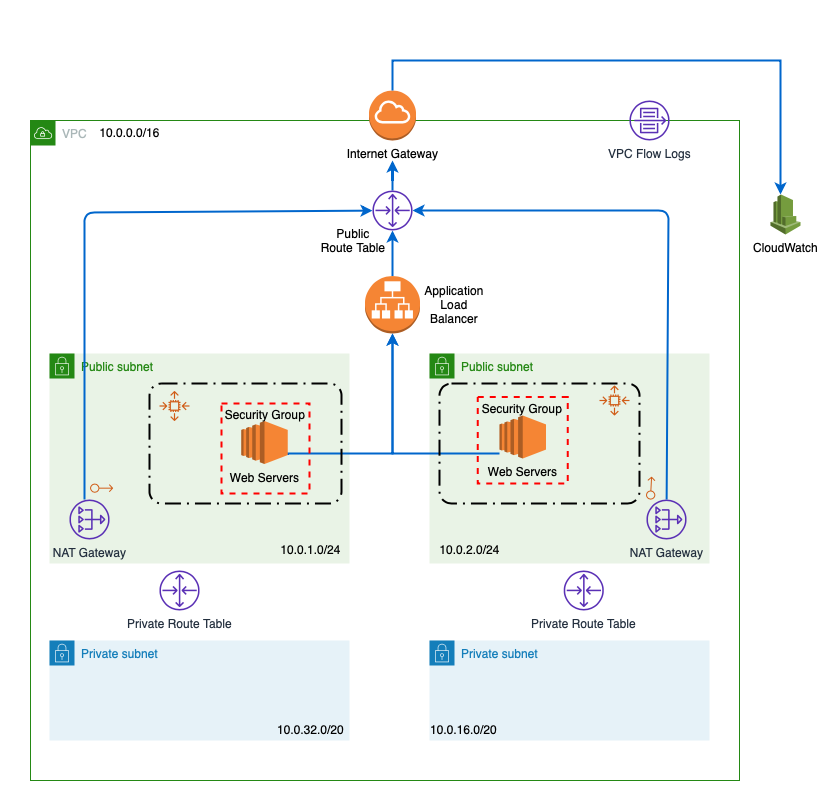
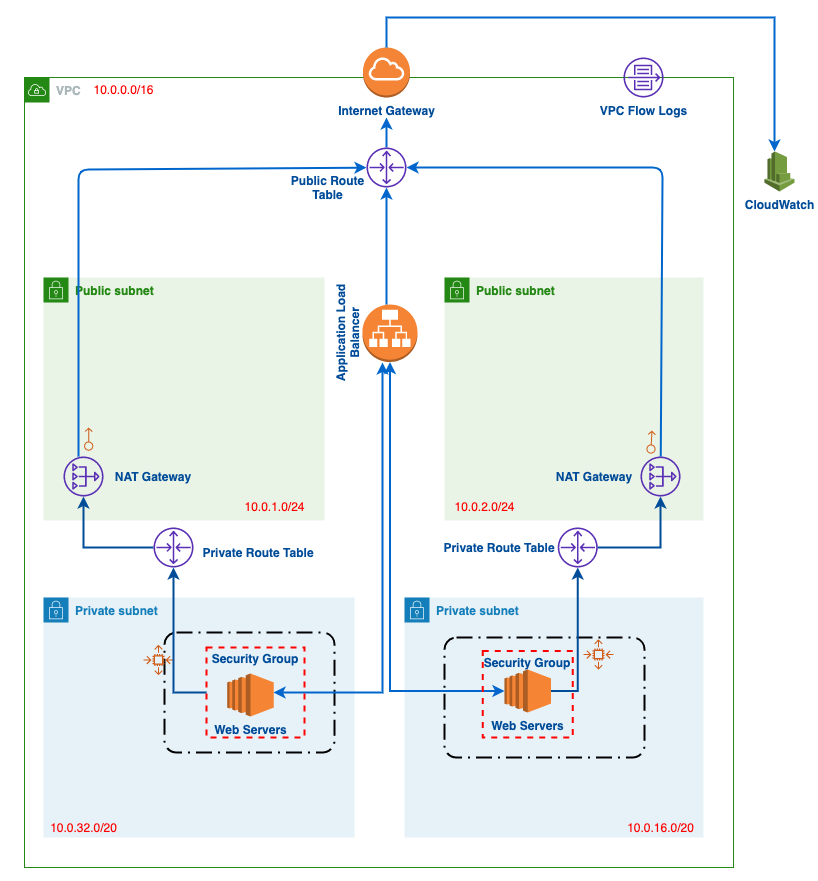
Updated reame and architecture diagram

diff --git a/README.md b/README.md
@@ -3,23 +3,24 @@
 The project has CloudFormation templates that creates nested stacks for creating :
 
     1. A VPC with 2 Public and 2 Private Subnets.
-      1.1. Will create a NAT gateway in both public subnets for QA and Production environment for HA.
-      1.2. For Development environment, only one NAT Gateway will be created to keep the cost down.
-      1.3. Private Subnets has route to NAT Gateways internet connectivity.
+      - Will create a NAT gateway in both public subnets for QA and Production environment for HA.
+      - For Development environment, only one NAT Gateway will be created to keep the cost down.
+      - Private Subnets has route to NAT Gateways internet connectivity.
     2. An Application Load Balancer
-      2.1. Will have a default target group.
-      2.1. Will have a security group allowing HTTP and HTTPS connection from internet.
+      - Will have a default target group.
+      - Will have a security group allowing HTTP and HTTPS connection from internet.
     3. A website application with EC2 autoscaling
-      3.1. An AutoScaling Group with  a LaunchTemplate.
-      3.2. A WebServer target gorup that registers with ALB Listener over HTTP.
-      3.3. A scaling policy based on the CPU Usage.'
+      - An AutoScaling Group with  a LaunchTemplate.
+      - A WebServer target gorup that registers with ALB Listener over HTTP.
+      - A scaling policy based on the CPU Usage.
+      - A Security group that only allows traffic from loadbalancer.
 
 
 ## Architecture
 
  ![Architecture](architecture.png)
 
-## Running Using UI
+## Deploy Using UI
 
 First Upload all the ``yaml`` files into a S3 bucket. Update the S3 references to the Infra and application yaml in the master.yml file.
 
